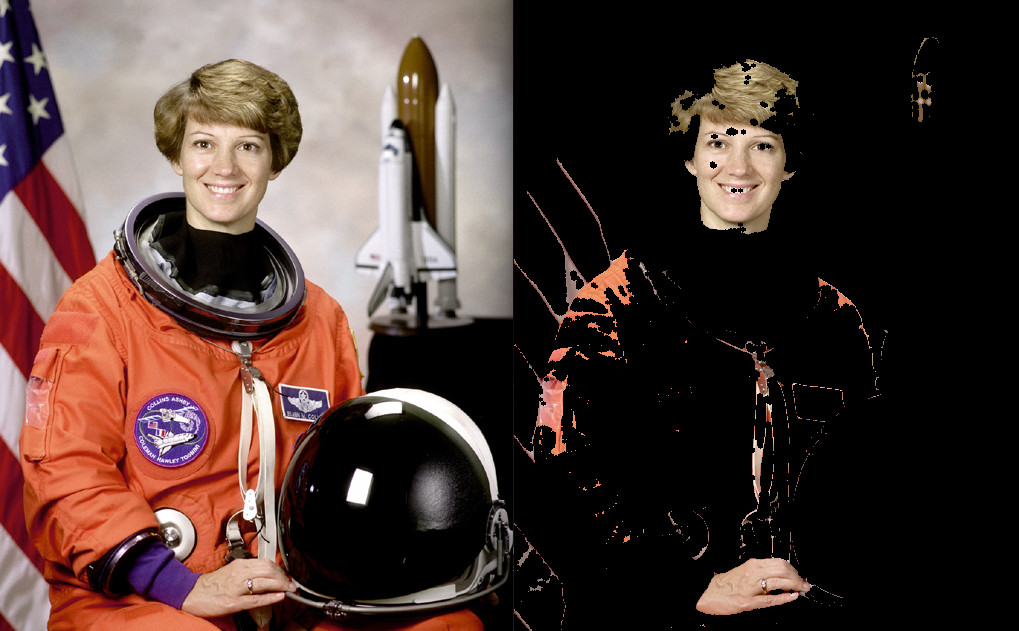
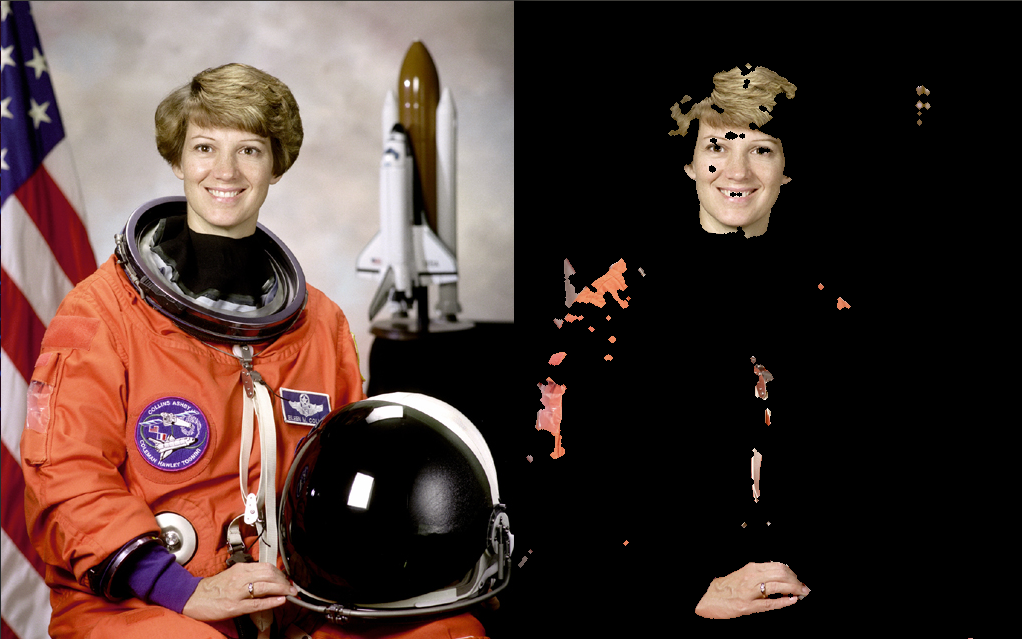
Added closing and opening operations

diff --git a/main.py b/main.py
@@ -67,7 +67,10 @@ class SkinDetector(object):
         assert isinstance(msk, numpy.ndarray), 'msk must be a numpy array'
         assert msk.ndim == 2, 'msk must be a greyscale image'
         kernel = cv2.getStructuringElement(cv2.MORPH_ELLIPSE, (5, 5))
-        return cv2.morphologyEx(msk, cv2.MORPH_CLOSE, kernel)
+        msk = cv2.morphologyEx(msk, cv2.MORPH_CLOSE, kernel)
+        kernel = cv2.getStructuringElement(cv2.MORPH_ELLIPSE, (3, 3))
+        msk = cv2.morphologyEx(msk, cv2.MORPH_OPEN, kernel, iterations=2)
+        return msk
 
     def process(self, img):
         logger.debug('Initialising process')
@@ -150,7 +153,6 @@ if __name__ == '__main__':
     args = extended.get_args()
     logger = extended.get_logger(quite=args.quite, debug=args.debug)
     args.image_paths = extended.find_images(args.image_paths[0])
-    print args.image_paths[-1]
     for image_path in args.image_paths:
         img_col = cv2.imread(image_path, 1)
         img_msk = process(img_col, args=args)
